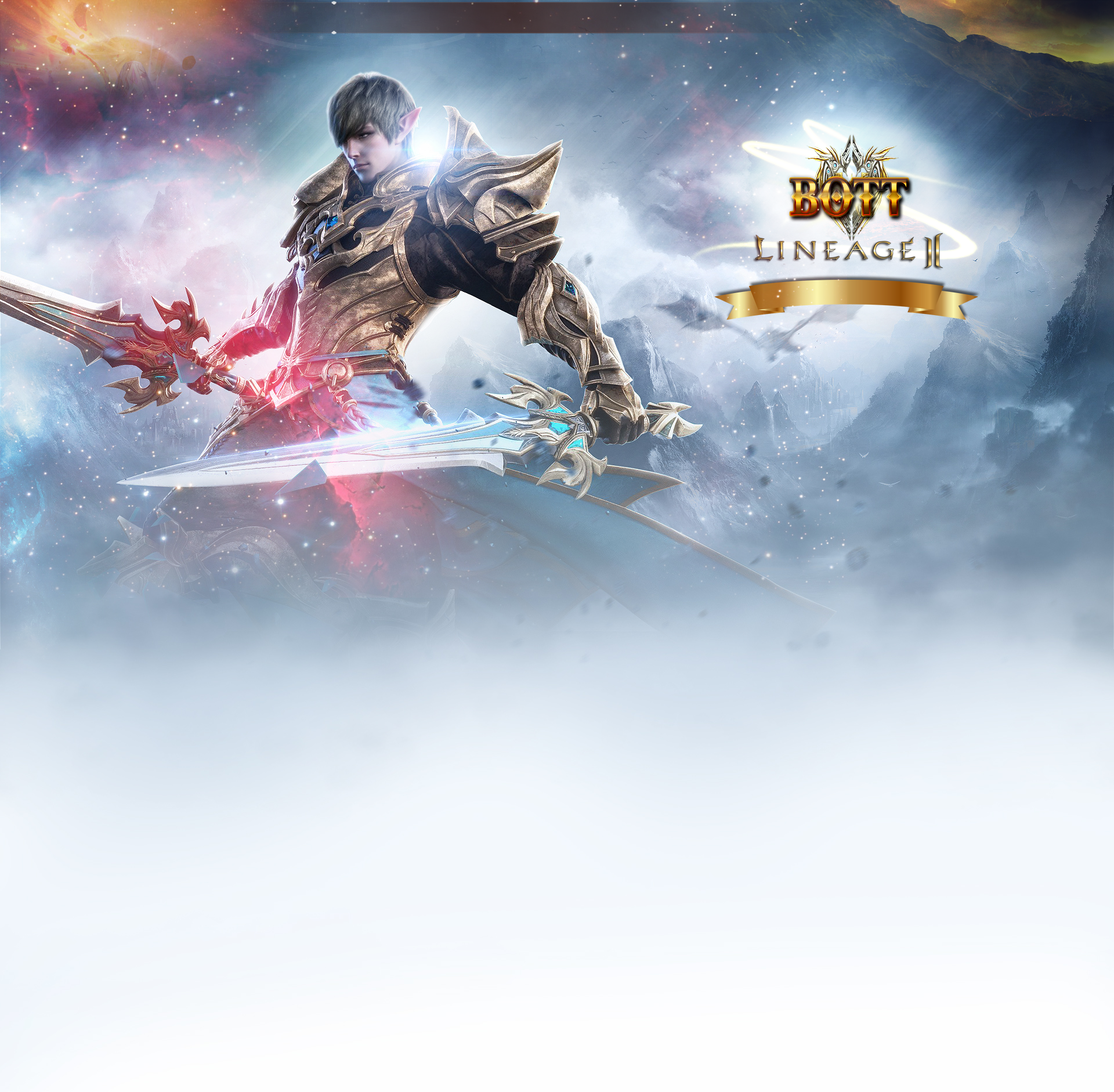
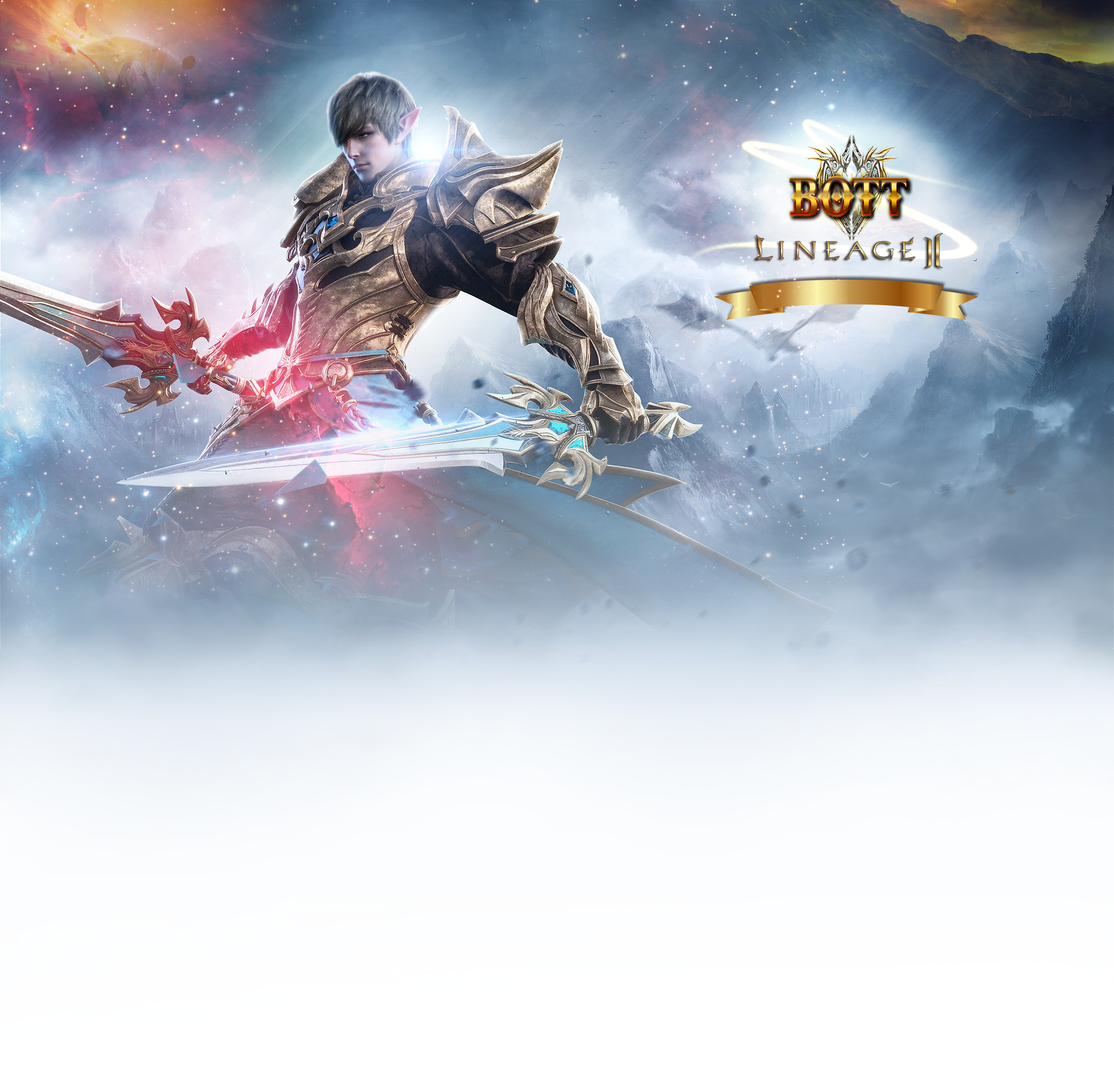
modificacao do visual do menu

Changed region(s): [[0.2812, 0.0, 0.6562, 0.0308], [0.1562, 0.6472, 0.1875, 0.678]]

diff --git a/src/components/PLayNow/style.css b/src/components/PLayNow/style.css
@@ -13,10 +13,34 @@ body{
 
 }
 
-#btn_play{
-    background-color: transparent;
-    border: none;
+.myButton {
+	box-shadow: 0px 1px 0px 0px #fff6af;
+	background:linear-gradient(to bottom, #ffec64 5%, #ffab23 100%);
+	background-color:#ffec64;
+	border-radius:6px;
+	border:1px solid #ffaa22;
+	display:inline-block;
+	cursor:pointer;
+	color:#333333;
+	font-family:Arial;
+	font-size:15px;
+	font-weight:bold;
+	padding:6px 24px;
+	text-decoration:none;
+	text-shadow:0px 1px 0px #ffee66;
 }
+.myButton:hover {
+	background:linear-gradient(to bottom, #ffab23 5%, #ffec64 100%);
+	background-color:#ffab23;
+}
+.myButton:active {
+	position:relative;
+	top:1px;
+}
+
+        
+  
+
 
 #btn_play:hover{
     background-color: orange;    

diff --git a/src/components/Header/style.css b/src/components/Header/style.css
@@ -1,13 +1,8 @@
 header{
-
   display: flex;
   align-items: center;
   flex-wrap: wrap;
-
-
-background-color: transparent;
-
-  
+  background-color: rgba(0, 0, 0, 0.705);
 }
 
 .logo-img img{
@@ -19,16 +14,22 @@ background-color: transparent;
 .menu-principal a{
   font-size: 32px;
   /* font-weight: bold; */
-  color: #000000;    
+  color: white;   
+  transition: 0.4s, text-shadow 0.4s;
 }
 
 .menu-principal a:hover{
-color: #ffbb00;
+color:yellow;
+	border-radius: 5px;
+	text-shadow: 0 0 10px #fff;
+    background: rgba(255,255,255,0.1);
 }
 
 .menu-principal li{
   display: inline;
   margin-left: 20px;
+  
+  
 }
 
 .menu-users{

diff --git a/src/components/PLayNow/PlayNow.js b/src/components/PLayNow/PlayNow.js
@@ -8,7 +8,7 @@ export default class Header extends Component {
         <>
             <div className="wallpaper-btnPlay">
               <div className="div-Play">
-                <button id="btn_play">JOGAR AGORA!</button>
+                <a href="#" class="myButton">JOGAR!</a>
               </div>
             </div>
         </>

diff --git a/src/pages/Home/style.css b/src/pages/Home/style.css
@@ -3,7 +3,7 @@
     margin: 0;
     padding: 0;
     background-color:white;
-    background-image: url('../../assets/imagens/top-bg.png');
+    background-image: url('../../assets/imagens/top-bg-menu.png');
     background-repeat: no-repeat;
     
 }
